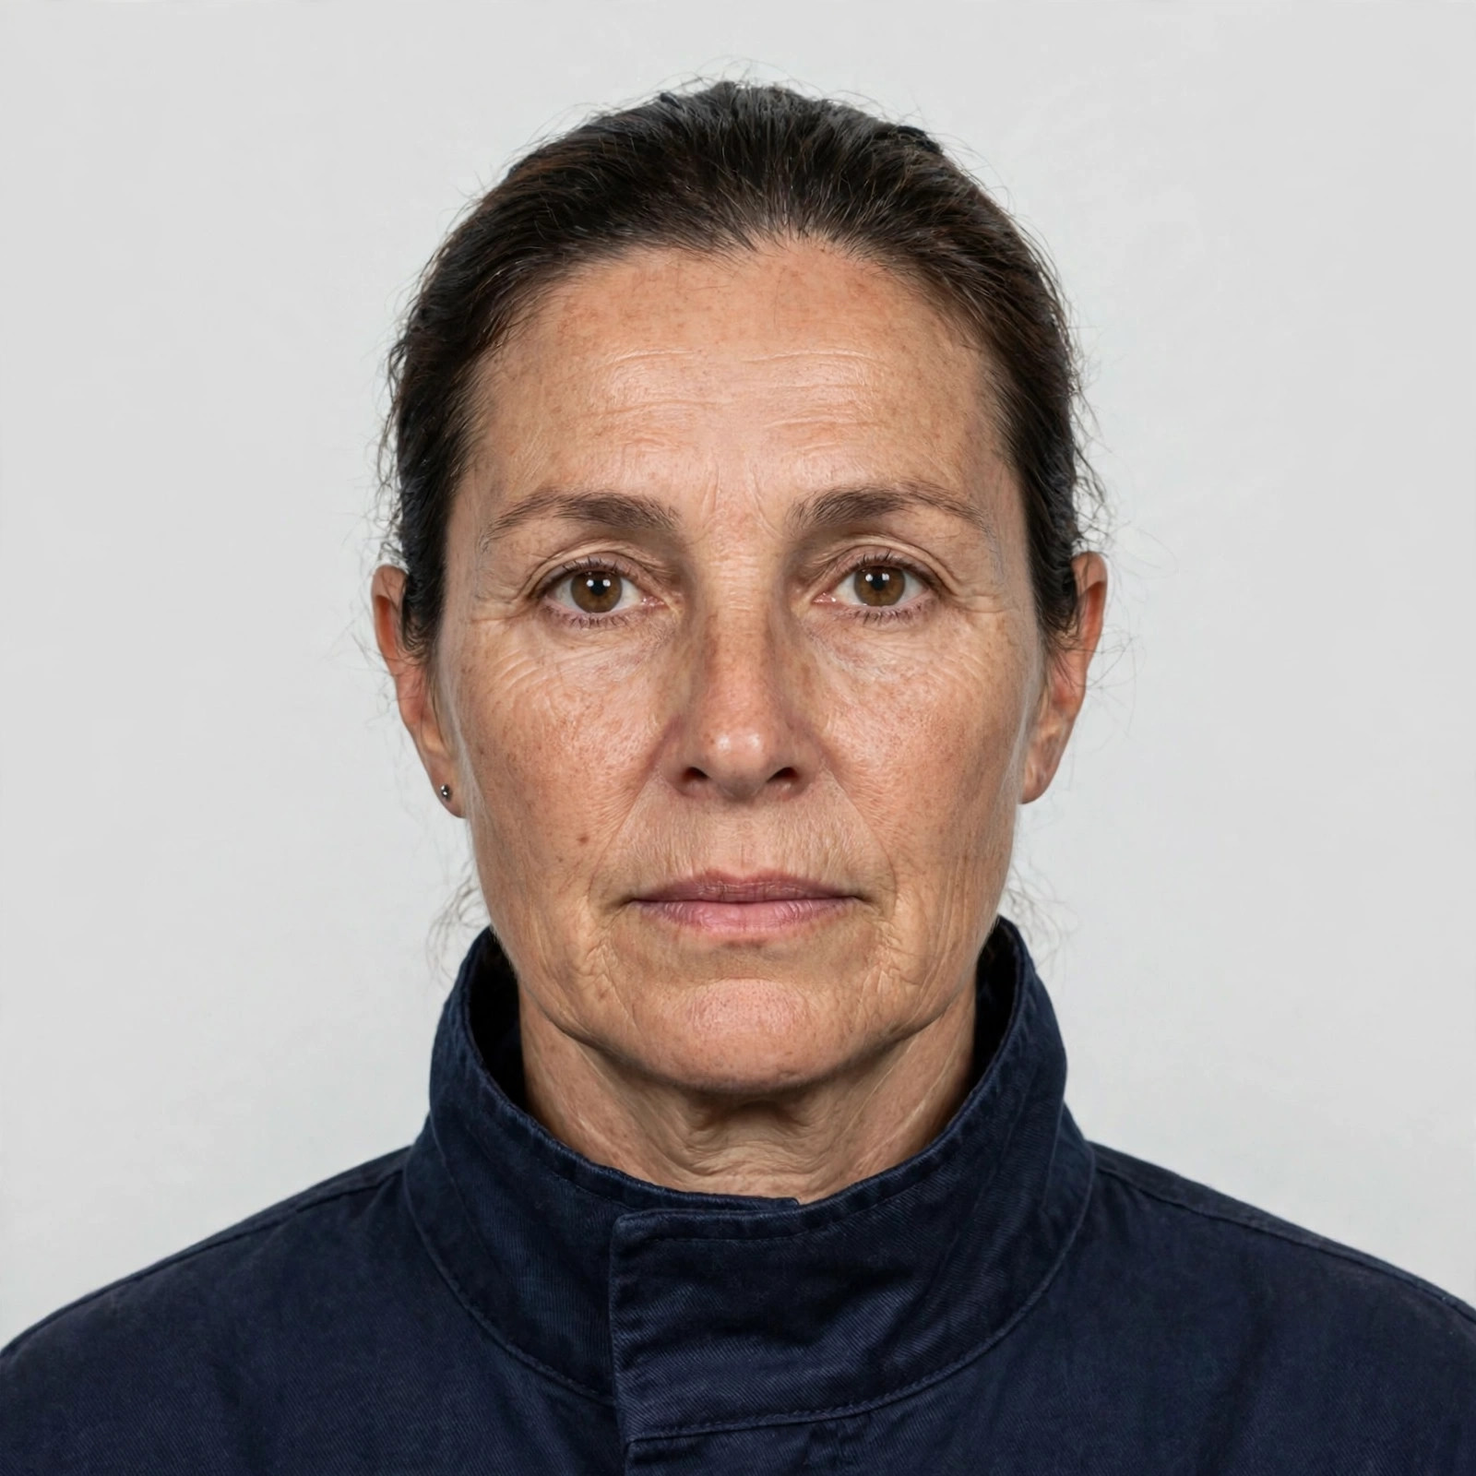
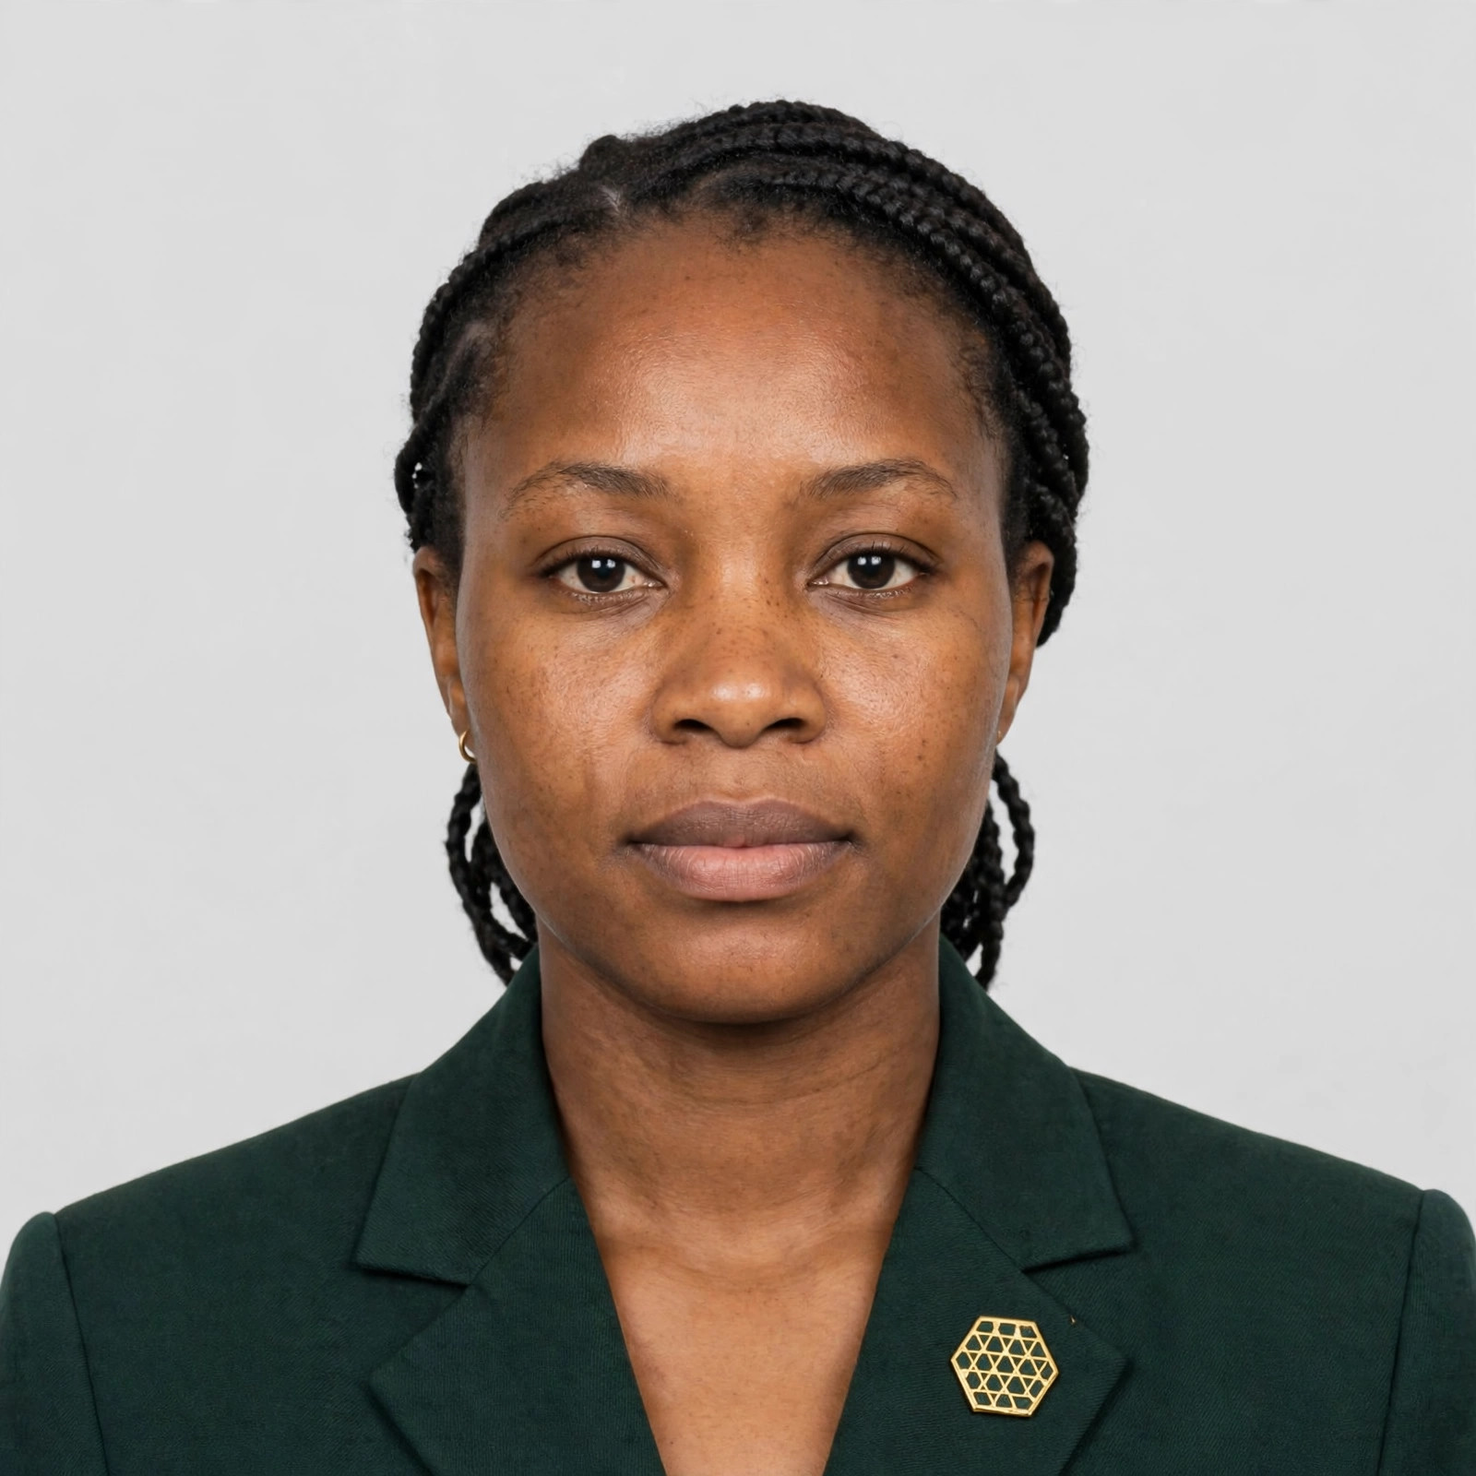
v2: passport spread of the Kingdom of Zanvara (Amara Ndele, solar lattice engineer)

diff --git a/main.py b/main.py
@@ -1,21 +1,21 @@
-"""Draw the passport spread of the Republic of Marenna as /output/entry.png.
+"""Draw the passport spread of the Kingdom of Zanvara as /output/entry.png.
 
-An invented country that does not exist: a lagoon republic of stilt
-towns on the Grey Lagoon, where the only way in or out is the pole-ferry
-at slack water. The holder, Selma Orren, is a licensed lagoon ferry
-pilot, and every detail of the document agrees with that: her
-occupation, the ferry pilot's endorsement, the lagoon toll stamp, the
-visa from neighbouring Aldorne, and a travel history of paired
-entry/exit stamps, all dated after the passport was issued on
-14 MAR 2023 and before it expires on 13 MAR 2033.
+An invented country that does not exist: a hidden highland kingdom in
+the Great Rift highlands, revealed to the world in 2019, whose
+solar-lattice technology runs on sunstone, a crystal found nowhere
+else. The holder, Amara Ndele, is a licensed solar lattice engineer,
+and every detail of the document agrees with that: her occupation,
+the solar lattice endorsement, the sunstone levy stamp, the visa from
+neighbouring Kessari, and a travel history of paired entry/exit
+stamps, all dated after the passport was issued on 09 MAY 2023 and
+before it expires on 08 MAY 2033.
 
 The program draws the whole spread with Pillow: paper, guilloche,
 emblem, data page, machine-readable zone (ICAO check digits computed,
-not typed), endorsement, visa, stamps, and a small ferry-route map.
-The portrait is a photograph generated for this entry and kept in the
-repository as portrait.jpg; it is pasted into the photo box and as a
-faint ghost image. No network, no randomness: two runs produce the
-same bytes.
+not typed), endorsement, visa, stamps, and a small sky-rail route
+map. The portrait is a photograph generated for this entry and kept
+in the repository as portrait.jpg; it is pasted into the photo box.
+No network, no randomness: two runs produce the same bytes.
 
 Run it locally the same way the grader does, with an output
 directory of your own:
@@ -42,7 +42,7 @@ GREY = (110, 108, 96)
 RED = (163, 51, 39)
 BLUE = (42, 77, 143)
 GREEN = (46, 107, 52)
-TEAL = (15, 95, 92)
+ZGREEN = (14, 59, 46)
 GOLD = (176, 141, 58)
 
 SERIF = "/usr/share/fonts/truetype/noto/NotoSerif-Regular.ttf"
@@ -111,10 +111,10 @@ def check_digit(s):
 
 
 def mrz_lines():
-    line1 = "P<MRNORREN<<SELMA" + "<" * (44 - len("P<MRNORREN<<SELMA"))
-    doc, nat = "MR4829107", "MRN"
-    dob, sex, exp = "810622", "F", "330313"
-    personal = "8106224417<<<<"
+    line1 = "P<ZNVNDELE<<AMARA" + "<" * (44 - len("P<ZNVNDELE<<AMARA"))
+    doc, nat = "ZV7391846", "ZNV"
+    dob, sex, exp = "900214", "F", "330508"
+    personal = "9002145523<<<<"
     body = (doc + check_digit(doc) + nat + dob + check_digit(dob) + sex
             + exp + check_digit(exp) + personal + check_digit(personal))
     line2 = body + check_digit(body)
@@ -161,18 +161,21 @@ def emblem(draw, cx, cy, r, color, width=2):
     draw.ellipse([cx - r, cy - r, cx + r, cy + r], outline=color, width=width)
     draw.ellipse([cx - r + 5, cy - r + 5, cx + r - 5, cy + r - 5],
                  outline=color, width=1)
-    # three lagoon waves
-    for k, yy in enumerate((-8, 0, 8)):
-        pts = []
-        for t in range(-r + 8, r - 7, 4):
-            pts.append((cx + t, cy + yy + 3 * math.sin(t / 9.0 + k)))
-        draw.line(pts, fill=color, width=2)
-    # pole-ferry: hull + pole + small sail
-    draw.line([(cx - 14, cy - 16), (cx + 14, cy - 16)], fill=color, width=2)
-    draw.line([(cx - 10, cy - 16), (cx + 10, cy - 16)], fill=color, width=1)
-    draw.line([(cx + 4, cy - 30), (cx + 4, cy - 16)], fill=color, width=2)
-    draw.polygon([(cx + 4, cy - 30), (cx + 16, cy - 18), (cx + 4, cy - 18)],
+    # sun-disc over the highland peaks
+    draw.ellipse([cx - 7, cy - 20, cx + 7, cy - 6], outline=color, width=2)
+    for ang in range(0, 360, 45):
+        a = math.radians(ang)
+        x1 = cx + 10 * math.cos(a)
+        y1 = cy - 13 + 10 * math.sin(a)
+        x2 = cx + 14 * math.cos(a)
+        y2 = cy - 13 + 14 * math.sin(a)
+        draw.line([(x1, y1), (x2, y2)], fill=color, width=1)
+    # peaks
+    draw.polygon([(cx - 18, cy + 12), (cx - 6, cy - 4), (cx + 2, cy + 12)],
                  outline=color)
+    draw.polygon([(cx - 2, cy + 12), (cx + 10, cy - 8), (cx + 20, cy + 12)],
+                 outline=color)
+    draw.line([(cx - 20, cy + 12), (cx + 22, cy + 12)], fill=color, width=2)
 
 
 def guilloche(draw):
@@ -202,10 +205,10 @@ def draw_spread():
 
     # ================= LEFT PAGE: data page =================
     emblem(draw, 259, 66, 27, INK)
-    center(draw, 259, 100, "REPUBLIC OF MARENNA", font(SERIF_B, 29), INK)
-    center(draw, 259, 132, "MARENNISK REPUBLIKK  ·  REPUBLIKA MARENNA",
+    center(draw, 259, 100, "KINGDOM OF ZANVARA", font(SERIF_B, 29), INK)
+    center(draw, 259, 132, "UFALME WA ZANVARA  ·  KINGDOM OF ZANVARA",
            font(SANS, 10), RED, tracking=1)
-    center(draw, 259, 148, "P A S S A  ·  P A S  ·  P A S S P O R T",
+    center(draw, 259, 148, "P A S S P O R T",
            font(SANS_B, 10), INK_SOFT, tracking=1)
     draw.line([(34, 168), (484, 168)], fill=INK, width=2)
     draw.line([(34, 172), (484, 172)], fill=INK, width=1)
@@ -219,53 +222,53 @@ def draw_spread():
     draw.text((34, 432), "PHOTOGRAPH", font=font(SANS, 7), fill=GREY)
 
     # type / code / number row, right of the photo
-    field(draw, 212, 184, "Type / Slag", "P")
-    field(draw, 272, 184, "Code / Kóð", "MRN")
-    field(draw, 344, 184, "Passport No. / Passa nr.", "MR4829107")
+    field(draw, 212, 184, "Type / Aina", "P")
+    field(draw, 272, 184, "Code / Msimbo", "ZNV")
+    field(draw, 344, 184, "Passport No. / Nambari", "ZV7391846")
     # data fields
-    field(draw, 212, 222, "Surname / Ættarnavn", "ORREN")
-    field(draw, 212, 260, "Given names / Fornavn", "SELMA")
-    field(draw, 212, 298, "Nationality / Ríkisfang", "MARENNIC")
-    field(draw, 212, 336, "Date of birth / Fæðingardagur", "22 JUN 1981")
-    field(draw, 392, 336, "Sex / Kyn", "F")
-    field(draw, 212, 374, "Place of birth / Fæðingarstaður",
-          "VESSA, GREY LAGOON")
-    field(draw, 212, 412, "Personal No. / Kennitala", "810622-4417")
-    field(draw, 212, 450, "Date of issue / Dags útgáfu", "14 MAR 2023")
-    field(draw, 392, 450, "Date of expiry / Gildir til", "13 MAR 2033")
-    field(draw, 212, 488, "Authority / Útgefandi",
-          "PASSPORT OFFICE, PORT VESSA")
-    field(draw, 212, 526, "Occupation / Starf",
-          "LAGOON FERRY PILOT · LIC. FP-118", vsize=13)
+    field(draw, 212, 222, "Surname / Jina la ukoo", "NDELE")
+    field(draw, 212, 260, "Given names / Majina", "AMARA")
+    field(draw, 212, 298, "Nationality / Uraia", "ZANVARAN")
+    field(draw, 212, 336, "Date of birth / Tarehe ya kuzaliwa",
+          "14 FEB 1990")
+    field(draw, 392, 336, "Sex / Jinsia", "F")
+    field(draw, 212, 374, "Place of birth / Mahali pa kuzaliwa",
+          "TAVARA, ZANVARA")
+    field(draw, 212, 412, "Personal No. / Nambari ya kibinafsi",
+          "900214-5523")
+    field(draw, 212, 450, "Date of issue / Tarehe ya kutolewa", "09 MAY 2023")
+    field(draw, 392, 450, "Date of expiry / Muda wake", "08 MAY 2033")
+    field(draw, 212, 488, "Authority / Mamlaka",
+          "PASSPORT OFFICE, TAVARA")
+    field(draw, 212, 526, "Occupation / Kazi",
+          "SOLAR LATTICE ENGINEER · GRID LIC. SL-207", vsize=13)
 
     # signature
-    draw.text((36, 566), "Selma Orren", font=font(SERIF_I, 24), fill=INK)
+    draw.text((36, 566), "Amara Ndele", font=font(SERIF_I, 24), fill=INK)
     draw.line([(34, 596), (240, 596)], fill=INK, width=1)
-    draw.text((34, 600), "Holder's signature / Undirskrift",
+    draw.text((34, 600), "Holder's signature / Sahihi",
               font=font(SANS, 8), fill=GREY)
-
-    # (ghost portrait omitted: the data column leaves no clear spot for
-    # a second image without covering a field)
 
     # observations
     draw.rectangle([34, 626, 484, 716], outline=INK_SOFT, width=1)
-    draw.text((44, 634), "OBSERVATIONS / ATHUGASEMDIR",
+    draw.text((44, 634), "OBSERVATIONS / MAELEZO",
               font=font(SANS_B, 9), fill=INK)
-    obs = ("Holder is a licensed lagoon ferry pilot (lic. FP-118). "
-           "Crossings only at slack water; pole-ferry only; "
-           "see endorsement on page 3.")
+    obs = ("Holder is a licensed solar lattice engineer (grid lic. "
+           "SL-207). Grid access only during daylight sync; sunstone "
+           "must not leave the kingdom unsealed; see endorsement on "
+           "page 3.")
     y = 652
     for line in wrap(draw, obs, font(SERIF, 11), 430):
         draw.text((44, y), line, font=font(SERIF, 11), fill=INK)
         y += 15
 
-    # tide strip
-    draw.rectangle([34, 730, 484, 786], outline=TEAL, width=1)
-    draw.rectangle([34, 730, 484, 752], fill=TEAL)
-    draw.text((44, 735), "TIDE CARD — VESSA GATE, TODAY",
+    # grid sync strip
+    draw.rectangle([34, 730, 484, 786], outline=ZGREEN, width=1)
+    draw.rectangle([34, 730, 484, 752], fill=ZGREEN)
+    draw.text((44, 735), "GRID SYNC — TAVARA, TODAY",
               font=font(SANS_B, 9), fill=(255, 255, 255))
     draw.text((44, 758),
-              "Low water 06:41  ·  18:57      Slack ± 2 h      Pole-ferry only",
+              "Sunrise 05:58  ·  Sunset 17:42      Daylight sync only",
               font=font(SANS_B, 10), fill=INK)
 
     # MRZ
@@ -274,7 +277,7 @@ def draw_spread():
                    outline=INK_SOFT, width=1)
     draw.text((44, 816), l1, font=font(MONO, 13), fill=INK)
     draw.text((44, 840), l2, font=font(MONO, 13), fill=INK)
-    draw.text((34, 884), "LANGUAGES OF ISSUE: MARENNIC · ENGLISH   |   "
+    draw.text((34, 884), "LANGUAGES OF ISSUE: ZANVARAN · ENGLISH   |   "
               "ICAO 9303 BIOMETRIC", font=font(SANS, 8), fill=GREY)
     center(draw, 259, 972, "2", font(SERIF, 12), INK_SOFT)
 
@@ -286,101 +289,100 @@ def draw_spread():
 
     # endorsement box
     draw.rectangle([540, 76, 990, 218], outline=INK, width=2)
-    draw.text((552, 86), "FERRY PILOT'S ENDORSEMENT 1 / 2023 · GREY LAGOON",
+    draw.text((552, 86), "SOLAR LATTICE ENGINEER'S ENDORSEMENT 2 / 2023",
               font=font(SANS_B, 11), fill=INK)
     draw.line([(552, 106), (978, 106)], fill=INK_SOFT, width=1)
-    body = ("The holder is a licensed lagoon ferry pilot (lic. FP-118). "
-            "Crossings are valid only at slack water, within ± 2 h of low "
-            "tide posted at the Vessa tide gate. Pole-ferry only; no motor "
-            "after dark. The tide card issued with this passport must be "
-            "carried.")
+    body = ("The holder is a licensed solar lattice engineer (grid lic. "
+            "SL-207), authorised to service the Sunstone Grid. Grid "
+            "access only during daylight sync, within ± 1 h of sunrise "
+            "and sunset at the Tavara grid gate. Sunstone must not leave "
+            "the kingdom unsealed.")
     y = 114
     for line in wrap(draw, body, font(SERIF, 12), 290):
         draw.text((552, y), line, font=font(SERIF, 12), fill=INK)
         y += 16
-    draw.text((552, 196), "Port Vessa, 14 MAR 2023",
+    draw.text((552, 196), "Tavara, 09 MAY 2023",
               font=font(SERIF_I, 11), fill=INK_SOFT)
-    # toll stamp, overlapping the endorsement corner
+    # sunstone levy stamp, overlapping the endorsement corner
     stamp(img, (856, 128, 976, 196),
-          [("MARENNA", "mid"), ("LAGOON TOLL", "mid"), ("12 MRK", "big"),
+          [("ZANVARA", "mid"), ("SUNSTONE LEVY", "mid"), ("40 ZVK", "big"),
            ("PAID", "mid")], RED, shape="rect", angle=-7, size=10)
 
-    # Aldorne visa
+    # Kessari visa
     draw.rectangle([540, 232, 990, 396], fill=(232, 240, 228),
                    outline=GREEN, width=2)
     draw.rectangle([540, 232, 990, 258], fill=GREEN)
-    draw.text((552, 238), "CONFEDERATION OF ALDORNE — SHORT-STAY VISA",
+    draw.text((552, 238), "REPUBLIC OF KESSARI — SHORT-STAY VISA",
               font=font(SANS_B, 11), fill=(255, 255, 255))
     draw.text((930, 238), "VISA C", font=font(SANS_B, 11),
               fill=(255, 255, 255))
-    draw.text((552, 266), "No. ALD 2407 1188",
+    draw.text((552, 266), "No. KES 2511 0934",
               font=font(SANS_B, 10), fill=RED)
-    field(draw, 552, 288, "Valid from / Valable du", "01 NOV 2024")
-    field(draw, 770, 288, "Until / Au", "30 NOV 2024")
+    field(draw, 552, 288, "Valid from / Valable du", "02 DEC 2024")
+    field(draw, 770, 288, "Until / Au", "01 JAN 2025")
     field(draw, 552, 326, "Entries / Entrées", "1 · SINGLE")
-    field(draw, 770, 326, "Duration / Durée", "15 DAYS")
-    draw.text((552, 366), "Issued at / Délivré à  CONSULATE, PORT VESSA — "
-              "22 OCT 2024", font=font(SANS_B, 10), fill=INK)
-    draw.text((552, 382), "Passport MR4829107  ·  ORREN, SELMA  ·  "
-              "ENTRY BY VESSA FERRY GATE · FEE 35 ALD PAID",
+    field(draw, 770, 326, "Duration / Durée", "20 DAYS")
+    draw.text((552, 366), "Issued at / Délivré à  CONSULATE, TAVARA — "
+              "18 NOV 2024", font=font(SANS_B, 10), fill=INK)
+    draw.text((552, 382), "Passport ZV7391846  ·  NDELE, AMARA  ·  "
+              "ENTRY BY RIFT GATE SKY-RAIL · FEE 45 KES PAID",
               font=font(SANS, 9), fill=INK_SOFT)
 
-    draw.text((540, 408), "ENTRY AND EXIT  ·  INNKOMA OG ÚTFÖR",
+    draw.text((540, 408), "ENTRY AND EXIT  ·  KUINGIA NA KUTOKA",
               font=font(SANS_B, 10), fill=INK_SOFT)
     draw.line([(540, 426), (990, 426)], fill=INK_SOFT, width=1)
 
     # stamps: paired, consistent travel history
     stamp(img, (540, 440, 758, 512),
-          [("MARENNA · UTFÖR / EXIT", "mid"), ("06 MAY 2023", "big"),
-           ("VESSA FERRY GATE", "small"), ("LOW WATER 06:41", "small")],
+          [("ZANVARA · EXIT", "mid"), ("12 JUN 2023", "big"),
+           ("TAVARA SKY GATE", "small"), ("GRID SYNC 05:58", "small")],
           BLUE, shape="rect", angle=-2, size=11)
     stamp(img, (772, 440, 990, 512),
-          [("DRAVIA", "big"), ("ENTRY", "mid"), ("07 MAY 2023", "mid"),
-           ("NORTH QUAY", "small")], RED, shape="round", angle=3, size=11)
+          [("KESSARI", "big"), ("ENTRY", "mid"), ("13 JUN 2023", "mid"),
+           ("RIFT GATE", "small")], RED, shape="round", angle=3, size=11)
     stamp(img, (540, 524, 758, 596),
-          [("DRAVIA", "big"), ("EXIT", "mid"), ("09 MAY 2023", "mid"),
-           ("NORTH QUAY", "small")], RED, shape="rect", angle=2, size=11)
+          [("KESSARI", "big"), ("EXIT", "mid"), ("15 JUN 2023", "mid"),
+           ("RIFT GATE", "small")], RED, shape="rect", angle=2, size=11)
     stamp(img, (772, 524, 990, 596),
-          [("MARENNA · INNKOMA / ENTRY", "mid"), ("10 MAY 2023", "big"),
-           ("VESSA FERRY GATE", "small"), ("LOW WATER 06:58", "small")],
+          [("ZANVARA · ENTRY", "mid"), ("16 JUN 2023", "big"),
+           ("TAVARA SKY GATE", "small"), ("GRID SYNC 05:58", "small")],
           GREEN, shape="rect", angle=-3, size=11)
     stamp(img, (540, 608, 758, 680),
-          [("ALDORNE", "big"), ("ENTRY", "mid"), ("14 NOV 2024", "mid"),
-           ("FERRY GATE 2", "small")], BLUE, shape="oval", angle=-2,
-          size=11)
+          [("KESSARI", "big"), ("ENTRY", "mid"), ("05 DEC 2024", "mid")],
+          BLUE, shape="oval", angle=-2, size=11)
     stamp(img, (772, 608, 990, 680),
-          [("ALDORNE", "big"), ("EXIT", "mid"), ("17 NOV 2024", "mid"),
-           ("FERRY GATE 2", "small")], RED, shape="rect", angle=3, size=11)
+          [("KESSARI", "big"), ("EXIT", "mid"), ("12 DEC 2024", "mid"),
+           ("RIFT GATE", "small")], RED, shape="rect", angle=3, size=11)
 
-    # ferry-route map
+    # sky-rail route map
     draw.rectangle([540, 694, 990, 900], outline=INK_SOFT, width=1)
     draw.rectangle([540, 694, 990, 716], fill=INK)
-    draw.text((552, 699), "GREY LAGOON — FERRY ROUTE 2",
+    draw.text((552, 699), "RIFT HIGHLANDS — SKY-RAIL ROUTE 1",
               font=font(SANS_B, 10), fill=(255, 255, 255))
     draw.text((900, 699), "NOT TO SCALE", font=font(SANS, 8),
               fill=(220, 220, 220))
-    # lagoon water
-    draw.rectangle([540, 716, 990, 900], fill=(214, 228, 232))
-    # land masses
-    draw.polygon([(540, 716), (660, 716), (640, 790), (560, 830),
-                  (540, 860)], fill=(226, 214, 178))
-    draw.polygon([(990, 716), (880, 716), (900, 800), (990, 860)],
-                 fill=(226, 214, 178))
+    # highland sky
+    draw.rectangle([540, 716, 990, 900], fill=(216, 228, 222))
+    # mountain masses
+    draw.polygon([(540, 900), (540, 800), (640, 716), (700, 800),
+                  (660, 900)], fill=(226, 214, 178))
+    draw.polygon([(990, 900), (990, 790), (880, 716), (830, 800),
+                  (870, 900)], fill=(226, 214, 178))
     draw.polygon([(700, 900), (760, 830), (830, 900)], fill=(226, 214, 178))
-    # route: smooth dashed curve Vessa -> North Quay
-    x0, y0, cx, cy, x1, y1 = 610, 800, 760, 690, 905, 758
+    # route: smooth dashed curve Tavara -> Rift Gate
+    x0, y0, cx, cy, x1, y1 = 610, 820, 760, 700, 905, 770
     for i in range(0, 25):
         t = i / 24
         bx = (1 - t) ** 2 * x0 + 2 * (1 - t) * t * cx + t ** 2 * x1
         by = (1 - t) ** 2 * y0 + 2 * (1 - t) * t * cy + t ** 2 * y1
         if i % 2 == 0:
             draw.ellipse([bx - 2, by - 2, bx + 2, by + 2], fill=RED)
-    for (x, y, name) in ((610, 800, "VESSA"), (905, 758, "NORTH QUAY"),
-                         (760, 858, "TORMUND SANDS")):
+    for (x, y, name) in ((610, 820, "TAVARA"), (905, 770, "RIFT GATE"),
+                         (760, 868, "NYOTA RIDGE")):
         draw.ellipse([x - 5, y - 5, x + 5, y + 5], fill=RED,
                      outline=(255, 255, 255), width=1)
         draw.text((x + 8, y - 6), name, font=font(SANS_B, 9), fill=INK)
-    draw.text((600, 830), "SLACK WATER ONLY", font=font(SANS_B, 8),
+    draw.text((600, 845), "DAYLIGHT SYNC ONLY", font=font(SANS_B, 8),
               fill=RED)
     # compass
     draw.ellipse([946, 856, 978, 888], outline=INK, width=1)
@@ -388,11 +390,11 @@ def draw_spread():
     draw.line([(962, 872), (962, 882)], fill=INK, width=1)
 
     draw.text((540, 912),
-              "This passport remains the property of the Republic of "
-              "Marenna.", font=font(SERIF_I, 11), fill=INK_SOFT)
+              "This passport remains the property of the Kingdom of "
+              "Zanvara.", font=font(SERIF_I, 11), fill=INK_SOFT)
     draw.text((540, 930), "If found, return to the Passport Office, "
-              "Port Vessa.", font=font(SERIF_I, 11), fill=INK_SOFT)
-    draw.text((920, 972), "MR4829107", font=font(SANS, 9), fill=GREY)
+              "Tavara.", font=font(SERIF_I, 11), fill=INK_SOFT)
+    draw.text((920, 972), "ZV7391846", font=font(SANS, 9), fill=GREY)
     return img
 
 

diff --git a/README.md b/README.md
@@ -2,14 +2,15 @@
 
 [![make.fun · the-passport-page-of-a-countr-2-20261121-0318](https://make.fun/badge/the-passport-page-of-a-countr-2-20261121-0318.svg)](https://make.fun/bounty/the-passport-page-of-a-countr-2-20261121-0318?utm_source=github&utm_medium=readme&utm_campaign=the-passport-page-of-a-countr-2-20261121-0318)
 
-The passport spread of the Republic of Marenna — a country that isn't
-there. A lagoon republic of stilt towns on the Grey Lagoon, where the
-only way in or out is the pole-ferry at slack water. The holder, Selma
-Orren, is a licensed lagoon ferry pilot (lic. FP-118): her occupation,
-the ferry pilot's endorsement, the lagoon toll stamp, the visa from
-neighbouring Aldorne, and a paired entry/exit travel history all agree
-with that, dated after the passport was issued on 14 MAR 2023 and
-before it expires on 13 MAR 2033.
+The passport spread of the Kingdom of Zanvara — a country that isn't
+there. A hidden highland kingdom in the Great Rift highlands, revealed
+to the world in 2019, whose solar-lattice technology runs on sunstone,
+a crystal found nowhere else. The holder, Amara Ndele, is a licensed
+solar lattice engineer (grid lic. SL-207): her occupation, the solar
+lattice endorsement, the sunstone levy stamp, the visa from
+neighbouring Kessari, and a paired entry/exit travel history all agree
+with that, dated after the passport was issued on 09 MAY 2023 and
+before it expires on 08 MAY 2033.
 
 ## Run it
 
@@ -20,7 +21,7 @@ mkdir -p out && MAKEFUN_OUTPUT_DIR=out python3 main.py
 `main.py` (Python 3.13, Pillow) draws the whole 1024x1024 spread to
 `/output/entry.png` — paper, guilloche, emblem, data page with an ICAO
 machine-readable zone (check digits computed, not typed), endorsement,
-visa, stamps, and a ferry-route map. The portrait is a photograph
+visa, stamps, and a sky-rail route map. The portrait is a photograph
 generated for this entry, kept as `portrait.jpg`. No network, no
 randomness: two runs produce the same bytes.
 
